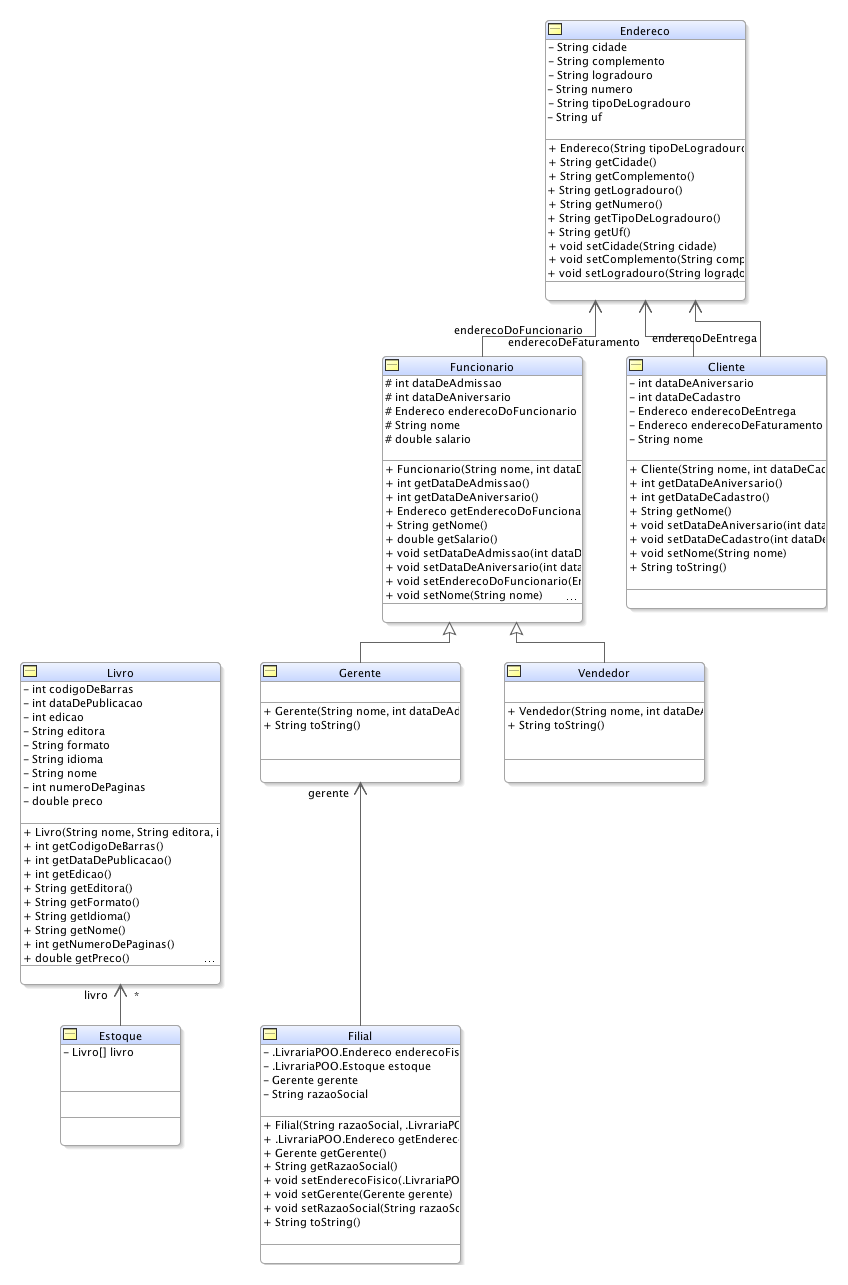
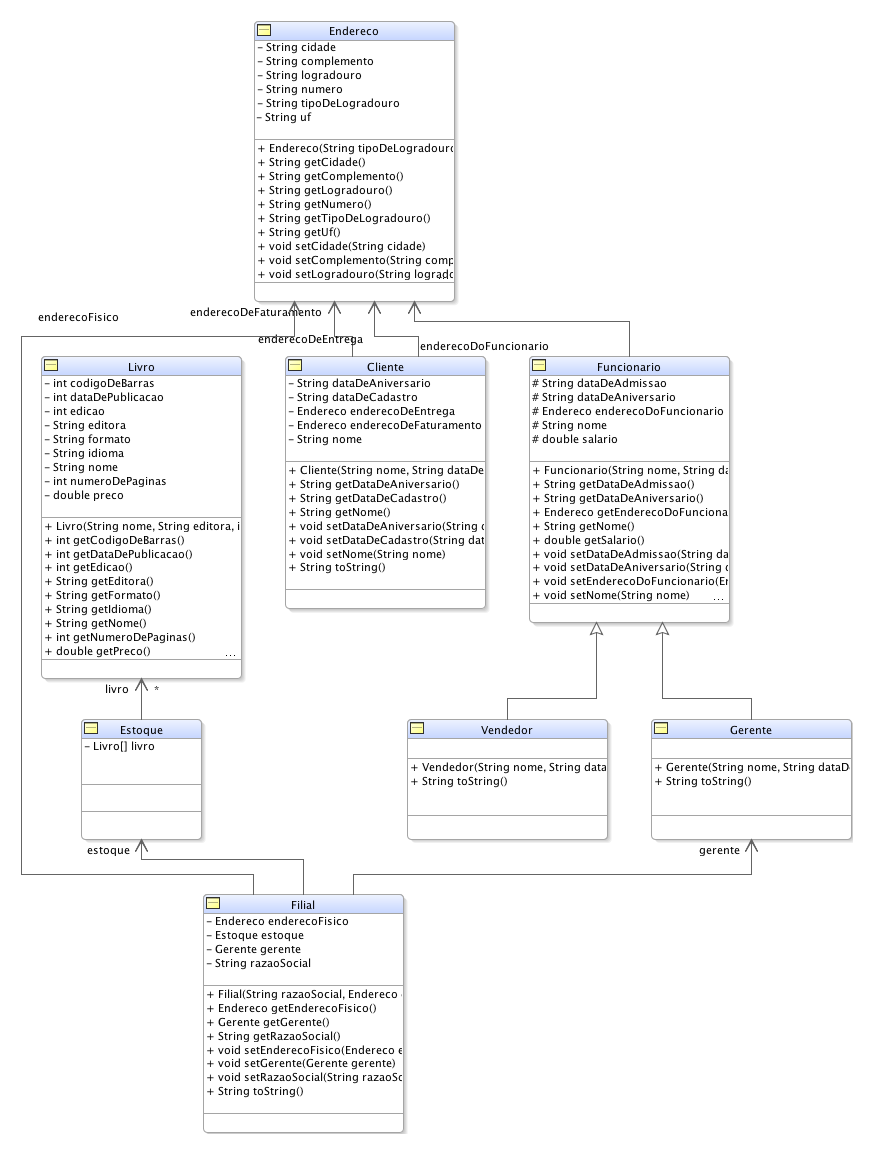
LivrariaPOO
Alterado os campos do tipo data para o tipo String. Informações das
classes.

Changed region(s): [[0.0, 0.0, 0.9811, 0.9983], [0.7972, 0.7175, 0.8892, 0.7487], [0.0613, 0.2496, 0.1226, 0.2808]]

diff --git a/LivrariaPOO/Cliente.java b/LivrariaPOO/Cliente.java
@@ -2,15 +2,19 @@ package LivrariaPOO;
 
 import java.util.*;
 
+/** 
+ * Classe com informações sobre o Cliente
+ * 
+ * **/
 public class Cliente {
     
     private String nome;
-    private int dataDeCadastro;
-    private int dataDeAniversario;
+    private String dataDeCadastro;
+    private String dataDeAniversario;
     private Endereco enderecoDeEntrega;
     private Endereco enderecoDeFaturamento;
 
-    public Cliente(String nome, int dataDeCadastro, int dataDeAniversario, Endereco enderecoDeEntrega,
+    public Cliente(String nome, String dataDeCadastro, String dataDeAniversario, Endereco enderecoDeEntrega,
                    Endereco enderecoDeFaturamento) {
         this.nome = nome;
         this.dataDeAniversario = dataDeAniversario;
@@ -27,19 +31,19 @@ public class Cliente {
         return nome;
     }
 
-    public void setDataDeAniversario(int dataDeAniversario) {
+    public void setDataDeAniversario(String dataDeAniversario) {
         this.dataDeAniversario = dataDeAniversario;
     }
 
-    public int getDataDeAniversario() {
+    public String getDataDeAniversario() {
         return dataDeAniversario;
     }
     
-    public void setDataDeCadastro(int dataDeCadastro) {
+    public void setDataDeCadastro(String dataDeCadastro) {
         this.dataDeCadastro = dataDeCadastro;
     }
 
-    public int getDataDeCadastro() {
+    public String getDataDeCadastro() {
         return dataDeCadastro;
     }
     
@@ -47,8 +51,8 @@ public class Cliente {
     //Endereco enderecoDeEntrega, Endereco enderecoDeFaturamento
     public String toString(){
         return String.format("Nome do Cliente: %s " +
-            "\nCadastrado desde: %d " +
-            "\nData de Aniversário: %d " +
+            "\nCadastrado desde: %s " +
+            "\nData de Aniversário: %s " +
             "\nEndereço de Entrega: %s" +
             "\nEndereço de Faturamento: %s", nome, dataDeCadastro, dataDeAniversario, enderecoDeEntrega, enderecoDeFaturamento);
     }

diff --git a/LivrariaPOO/Funcionario.java b/LivrariaPOO/Funcionario.java
@@ -1,15 +1,18 @@
 package LivrariaPOO;
 
-
+/** 
+ * Classe com as informações do Funcionário
+ * 
+ * **/
 public class Funcionario {
     
     protected String nome;
-    protected int dataDeAdmissao;
-    protected int dataDeAniversario;
+    protected String dataDeAdmissao;
+    protected String dataDeAniversario;
     protected double salario;
     protected LivrariaPOO.Endereco enderecoDoFuncionario;
 
-    public Funcionario(String nome, int dataDeAdmissao, int dataDeAniversario, double salario,
+    public Funcionario(String nome, String dataDeAdmissao, String dataDeAniversario, double salario,
                        LivrariaPOO.Endereco enderecoDoFuncionario) {
         super();
         this.nome = nome;
@@ -19,7 +22,6 @@ public class Funcionario {
         this.enderecoDoFuncionario = enderecoDoFuncionario;
     }
 
-
     public void setNome(String nome) {
         this.nome = nome;
     }
@@ -28,19 +30,19 @@ public class Funcionario {
         return nome;
     }
 
-    public void setDataDeAdmissao(int dataDeAdmissao) {
+    public void setDataDeAdmissao(String dataDeAdmissao) {
         this.dataDeAdmissao = dataDeAdmissao;
     }
 
-    public int getDataDeAdmissao() {
+    public String getDataDeAdmissao() {
         return dataDeAdmissao;
     }
 
-    public void setDataDeAniversario(int dataDeAniversario) {
+    public void setDataDeAniversario(String dataDeAniversario) {
         this.dataDeAniversario = dataDeAniversario;
     }
 
-    public int getDataDeAniversario() {
+    public String getDataDeAniversario() {
         return dataDeAniversario;
     }
 

diff --git a/LivrariaPOO/Teste.java b/LivrariaPOO/Teste.java
@@ -7,10 +7,10 @@ public class Teste {
         Endereco endereco3 = new Endereco("Rua", "dos Abacateiros", "3000","Sem complemento", "São Paulo", "SP");
         Endereco endereco4 = new Endereco("Avenida", "dos Jacarandás", "3242", "Casa", "Bento Gonçalves", "RS");
         
-        Cliente cliente1 = new Cliente("José do Nascimento", 12, 12, endereco1, endereco2);
+        Cliente cliente1 = new Cliente("José do Nascimento", "12/12/1986", "13/05/2013", endereco1, endereco2);
         //endereco3 onde o Gerente mora.
-        LivrariaPOO.Gerente gerente1 = new LivrariaPOO.Gerente("Carlos Eduardo", 34, 34, 450,endereco3);
-        LivrariaPOO.Vendedor vendedor1 = new LivrariaPOO.Vendedor("Juliano Pereira", 3434, 434343, 120, endereco4);
+        Gerente gerente1 = new Gerente("Carlos Eduardo", "13/01/1986", "06/05/2003", 450,endereco3);
+        Vendedor vendedor1 = new Vendedor("Juliano Pereira", "10/10/1980", "11/11/2011", 120, endereco4);
         
         //Filial filial1 = new Filial("Livraria da Rua de Cima", endereco3, gerente1);
         

diff --git a/LivrariaPOO/Gerente.java b/LivrariaPOO/Gerente.java
@@ -3,7 +3,11 @@ package LivrariaPOO;
 
 import java.util.Date;
 
-public class Gerente extends LivrariaPOO.Funcionario{
+/** 
+ * Classe com as informações do Gerente. Gerente É-UM tipo de Funcionário.
+ * 
+ * **/
+public class Gerente extends Funcionario{
     
     /*private String nome;
     private int dataDeAdmissao;
@@ -55,7 +59,7 @@ public class Gerente extends LivrariaPOO.Funcionario{
     
     //String nome, int dataDeAdmissao, int dataDeAniversario, double salario, Endereco enderecoDaLivraria
 
-    public Gerente(String nome, int dataDeAdmissao, int dataDeAniversario, double salario,
+    public Gerente(String nome, String dataDeAdmissao, String dataDeAniversario, double salario,
                    LivrariaPOO.Endereco enderecoDoFuncionario) {
         super(nome, dataDeAdmissao, dataDeAniversario, salario, enderecoDoFuncionario);
     }

diff --git a/LivrariaPOO/Vendedor.java b/LivrariaPOO/Vendedor.java
@@ -1,10 +1,14 @@
 package LivrariaPOO;
 
+/** 
+ * Classe com as informações do Vendedor. Vendedor É-UM tipo de Funcionário.
+ * 
+ * **/
 
-public class Vendedor extends LivrariaPOO.Funcionario{
+public class Vendedor extends Funcionario{
 
-    public Vendedor(String nome, int dataDeAdmissao, int dataDeAniversario, double salario,
-                    LivrariaPOO.Endereco enderecoDoFuncionario) {
+    public Vendedor(String nome, String dataDeAdmissao, String dataDeAniversario, double salario,
+                    Endereco enderecoDoFuncionario) {
         super(nome, dataDeAdmissao, dataDeAniversario, salario, enderecoDoFuncionario);
     }
     

diff --git a/LivrariaPOO/Filial.java b/LivrariaPOO/Filial.java
@@ -3,11 +3,11 @@ package LivrariaPOO;
 public class Filial {
     
     private String razaoSocial;
-    private LivrariaPOO.Endereco enderecoFisico;
+    private Endereco enderecoFisico;
     private Gerente gerente;
-    private LivrariaPOO.Estoque estoque;
+    private Estoque estoque;
 
-    public Filial(String razaoSocial, LivrariaPOO.Endereco enderecoFisico, Gerente gerente) {
+    public Filial(String razaoSocial, Endereco enderecoFisico, Gerente gerente, Estoque estoque) {
         super();
         this.razaoSocial = razaoSocial;
         this.enderecoFisico = enderecoFisico;
